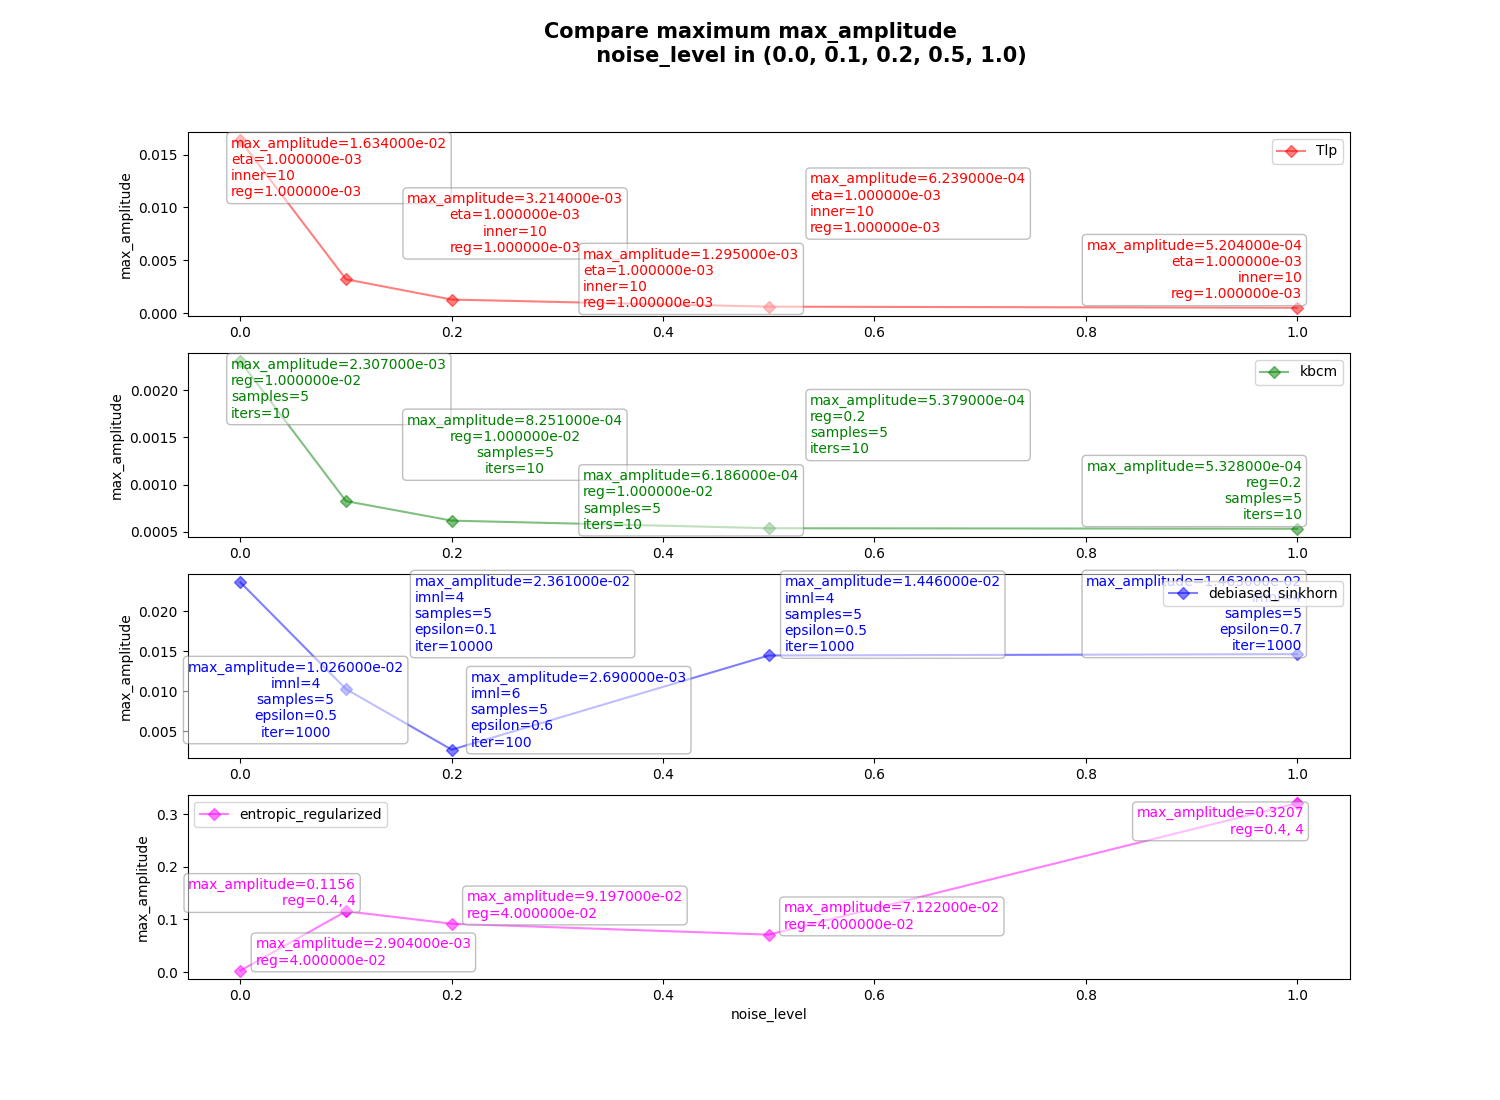
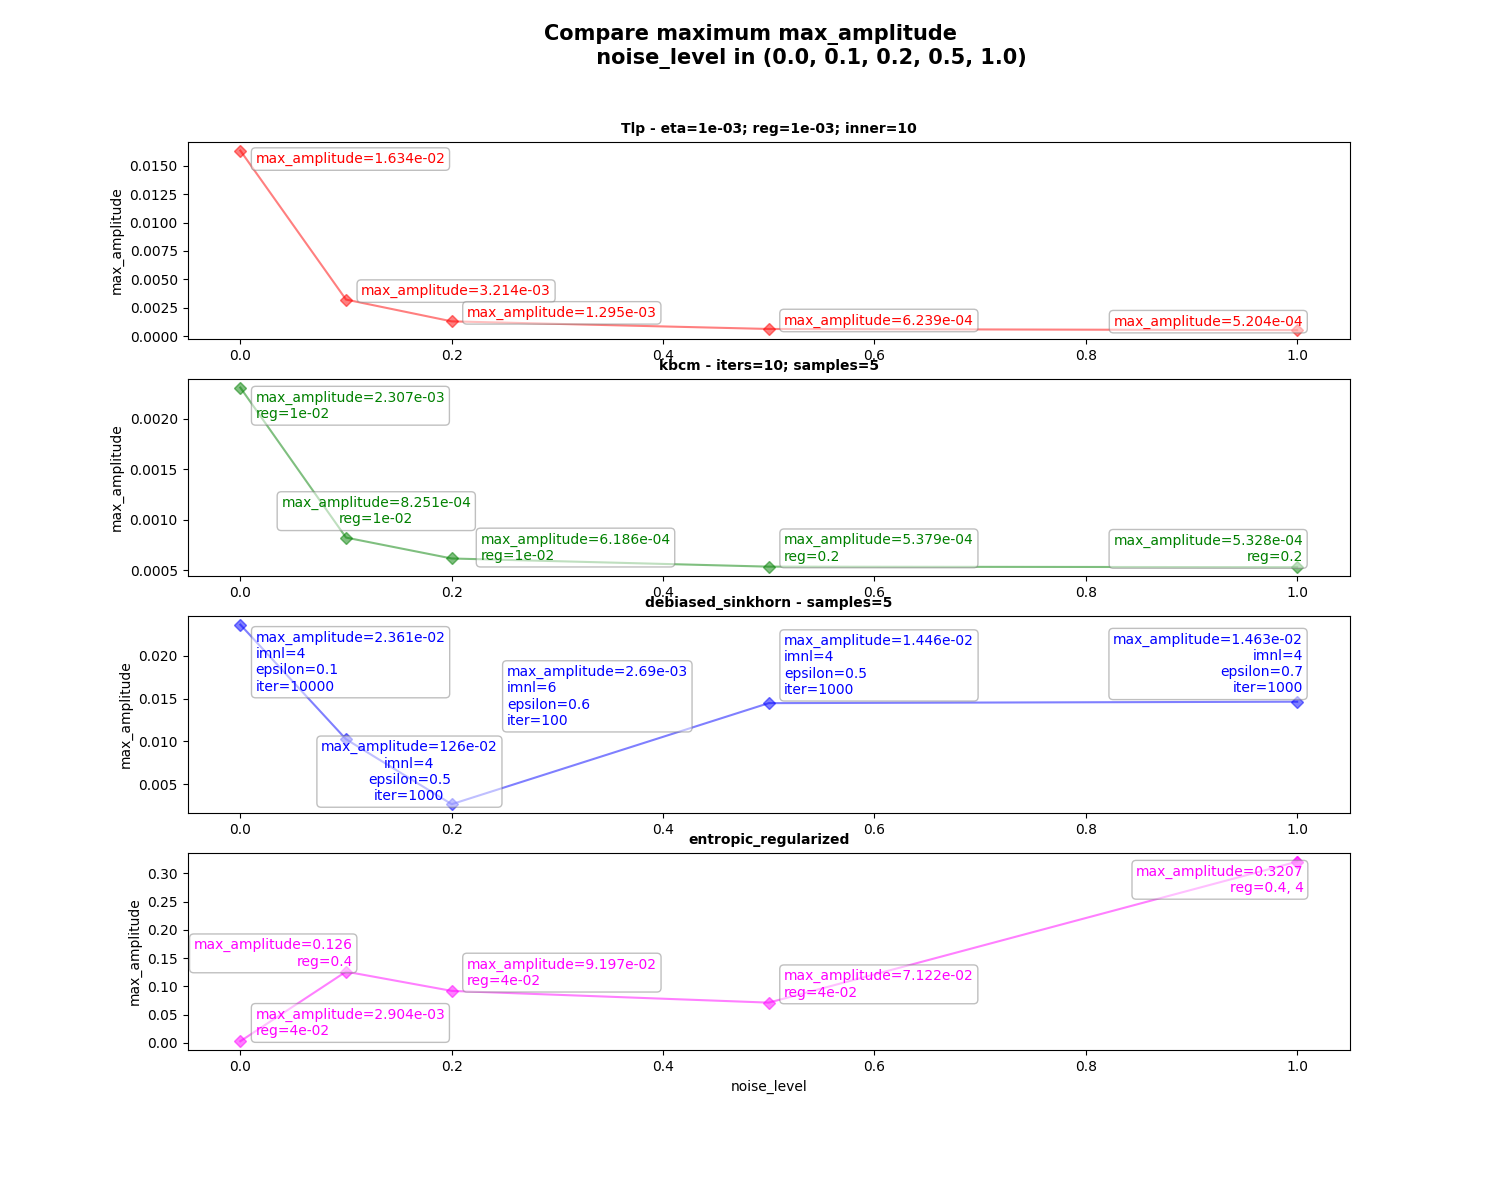
save changes in compare.

diff --git a/deliverable_clean/comparison_criteria/compare.py b/deliverable_clean/comparison_criteria/compare.py
@@ -12,6 +12,10 @@ import standardize
 from adjustText import adjust_text
 from math import log10, floor
 
+round_sig = lambda x, sig=2 : round(x, sig-int(floor(log10(abs(x))))-1)
+
+
+
 def get_label(df) :
     def round_sig(x, sig=2):
         return round(x, sig-int(floor(log10(abs(x))))-1)
@@ -36,6 +40,9 @@ def get_label(df) :
                     values[i] = round_sig(values[i],4)
                     if values[i] < 0.1 :
                         values[i] = "{:e}".format(values[i])
+                        values[i] = re.sub(r"(0+e)","e",values[i])
+                        values[i] = re.sub(r"(\.e)", "e", values[i])
+                        values[i] = re.sub(r"(\.0+)", "", values[i])
             except :
                 pass
             finally :
@@ -45,8 +52,26 @@ def get_label(df) :
             text.append(shorten[c]+'='+", ".join(set(values))+"")
         else :
             text.append(c+'='+", ".join(set(values))+"")
-    text ="\n".join( text )
+    # text ="\n".join( text )
     return text
+
+
+def get_title_and_text(list_text, plot_title) :
+    set_text = set(list_text[0])
+    for l in list_text[1:] :
+        set_text = set_text & set(l)
+    if len(set_text) != 0 :
+        plot_title = plot_title + " - " + "; ".join(list(set_text))
+        for s in set_text :
+            for i in range(len(list_text)) :
+                if s in list_text[i] :
+                    list_text[i].remove(s)
+
+    for i in range(len(list_text)) :
+        list_text[i] = "\n".join(list_text[i])
+
+    return (list_text,plot_title)
+
 
 def parse_key(key) :
     true_key = {    "debiased_sink_bary" : "debiased_sinkhorn",
@@ -64,6 +89,7 @@ def parse_key(key) :
     else :
         return key
 
+
 def get_files(path = "./data"):
     directories = [f for f in os.listdir(path) if not os.path.isfile(os.path.join(path, f))]
     directories.remove('noisefrees_control')
@@ -76,6 +102,7 @@ def get_files(path = "./data"):
         tree[d].sort()
 
     return tree
+
 
 def collect(path = "./data/", save=True, save_path="./results/"):
     tree = get_files(path)
@@ -115,7 +142,10 @@ def collect(path = "./data/", save=True, save_path="./results/"):
 
     return df
 
-def compare_max_amplitude(show_plot=True,save_plot=True,show_points_params=True):
+
+def compare_max_amplitude(show_plot=True,
+                          save_plot=True,
+                          show_points_params=True):
     df = pd.read_csv(os.path.join("./results", "DataFrame_summary.csv"))
     make_plot(df = df,
               min_or_max = "max", 
@@ -125,16 +155,25 @@ def compare_max_amplitude(show_plot=True,save_plot=True,show_points_params=True)
               show_points_params=show_points_params)
 
 
-def compare_obv_thr_pixels_std(show_plot=True,save_plot=True,show_points_params=True):
+def compare_obv_thr_pixels_std(show_plot=True,
+                               save_plot=True,
+                               show_points_params=True):
     def adapted_l2(vector) :
         vector = list(vector)
         new_vector = []
         for i in range(len(vector)) :
-            x_str = vector[i].split('\n ')
-            x = []
-            x.append(float(x_str[0][2:-1]))
-            x.append(float(x_str[1][1:-2]))
-            new_vector.append(np.sqrt(x[0]**2+x[1]**2))
+            x_str = str(vector[i])
+            if x_str != "nan" :
+                x_str = re.sub(r'(\[|\])', '', x_str)
+                x_str = re.sub(r'(\s+)', ' ', x_str)
+                x_str = re.sub(r'((?:\s)+)$', '', x_str)
+                x_str = x_str.split(' ')
+                x = []
+                x.append(float(x_str[0]))
+                x.append(float(x_str[1]))
+                new_vector.append(np.sqrt(x[0]**2+x[1]**2))
+            else :
+                new_vector.append(None)
         return new_vector
 
     df = pd.read_csv(os.path.join("./results", "DataFrame_summary.csv"))
@@ -147,17 +186,22 @@ def compare_obv_thr_pixels_std(show_plot=True,save_plot=True,show_points_params=
               show_points_params=show_points_params)
 
 
-def compare_obv_thr_pixels(show_plot=True,save_plot=True,show_points_params=True):
+def compare_obv_thr_pixels(show_plot=True,
+                           save_plot=True,
+                           show_points_params=True):
     def count_pixels(pixels) :
         pixels = list(pixels)
         new_pixels = []
         for i in range(len(pixels)) :
-            p = pixels[i].replace("[",'')
-            p = p.replace("]",'')
-            p = p.replace("\n",' ')
-            p = re.sub(r'\s(?:\s)+', ' ', p)
-            p = p.split((' '))
-            new_pixels.append(len(p)//2)
+            if str(pixels[i]) != "nan" :
+                p = pixels[i].replace("[",'')
+                p = p.replace("]",'')
+                p = p.replace("\n",' ')
+                p = re.sub(r'\s(?:\s)+', ' ', p)
+                p = p.split((' '))
+                new_pixels.append(len(p)//2)
+            else :
+                new_pixels.append(None)
         return new_pixels
 
     df = pd.read_csv(os.path.join("./results", "DataFrame_summary.csv"))
@@ -169,7 +213,10 @@ def compare_obv_thr_pixels(show_plot=True,save_plot=True,show_points_params=True
               save_plot=save_plot, 
               show_points_params=show_points_params)
 
-def compare_barycenter_location(show_plot=True, save_plot=True, show_points_params=True):
+
+def compare_barycenter_location(show_plot=True, 
+                                save_plot=True, 
+                                show_points_params=True):
     def adapted_l2(vector) :
         vector = list(vector)
         new_vector = []
@@ -178,6 +225,7 @@ def compare_barycenter_location(show_plot=True, save_plot=True, show_points_para
             if x_str != "nan" :
                 x_str = re.sub(r'(\[|\])', '', x_str)
                 x_str = re.sub(r'[\s]+', ' ', x_str)
+                x_str = re.sub(r'((?:\s)+)$', '', x_str)
                 x_str = x_str.split(' ')
                 x = []
                 x.append(float(x_str[0])-24.5)
@@ -196,6 +244,7 @@ def compare_barycenter_location(show_plot=True, save_plot=True, show_points_para
               save_plot=save_plot, 
               show_points_params=show_points_params)
    
+
 def make_plot(df, 
               min_or_max, 
               variable, 
@@ -242,22 +291,30 @@ def make_plot(df,
         x = sub_algo_variable_df["noise_level"]
         y = sub_algo_variable_df[variable]
         label = algo
+        plot_title = algo
         plt.plot(x, y,label=label, color=colors[i], marker='D', alpha=.5)
 
         #print the parameters on the plot
         if show_points_params :
             j=0
             texts=[]
+            s_s = []
+            x_s = []
+            y_s = []
             for noise_lvl in sub_algo_variable_df["noise_level"].unique() :
                 sub_algo_noise_variable_df = pd.DataFrame(sub_algo_variable_df[sub_algo_variable_df['noise_level'] == noise_lvl])
                 text_param = get_label(sub_algo_noise_variable_df.drop(['noise_level',
                                                                         'algorithm'], axis='columns'))
-                s = text_param
-                x = noise_lvl
-                y = sub_algo_noise_variable_df[variable].iloc[0]
-                t = plt.text(x=x+0.01, 
-                             y=y, 
-                             s=text_param, 
+                s_s.append(text_param)
+                x_s.append(noise_lvl)
+                y_s.append(sub_algo_noise_variable_df[variable].iloc[0])
+                j+=1
+
+            list_text,plot_title = get_title_and_text(s_s,plot_title)
+            for k in range(j) :
+                t = plt.text(x=x_s[k]+0.01, 
+                             y=y_s[k], 
+                             s=list_text[k], 
                              color=colors[i], 
                              rotation=0)
                 t.set_bbox(dict(facecolor='white', 
@@ -265,10 +322,10 @@ def make_plot(df,
                                 edgecolor='gray',
                                 boxstyle='round'))
                 texts.append(t)
-                j+=1
         i+=1
-        adjust_text(texts)
-        plt.legend()
+        adjust_text(texts, precision=1e-3)
+        # plt.legend()
+        plt.title(plot_title, fontsize=10.0, fontweight='bold')
         plt.ylabel(variable)
 
     plt.xlabel("noise_level")
@@ -289,8 +346,7 @@ def make_plot(df,
 
 if __name__ == "__main__":
     # collect("../test_algos/results")
-    # collect("../../deliverable_clean/test_algos/results")
-    # compare_max_amplitude(show_plot=False)
-    # compare_obv_thr_pixels_std(show_plot=False)
-    # compare_obv_thr_pixels(show_plot=False)
-    compare_barycenter_location(show_plot=True)
+    compare_max_amplitude(show_plot=False)
+    compare_obv_thr_pixels_std(show_plot=False)
+    compare_obv_thr_pixels(show_plot=False)
+    compare_barycenter_location(show_plot=False)
